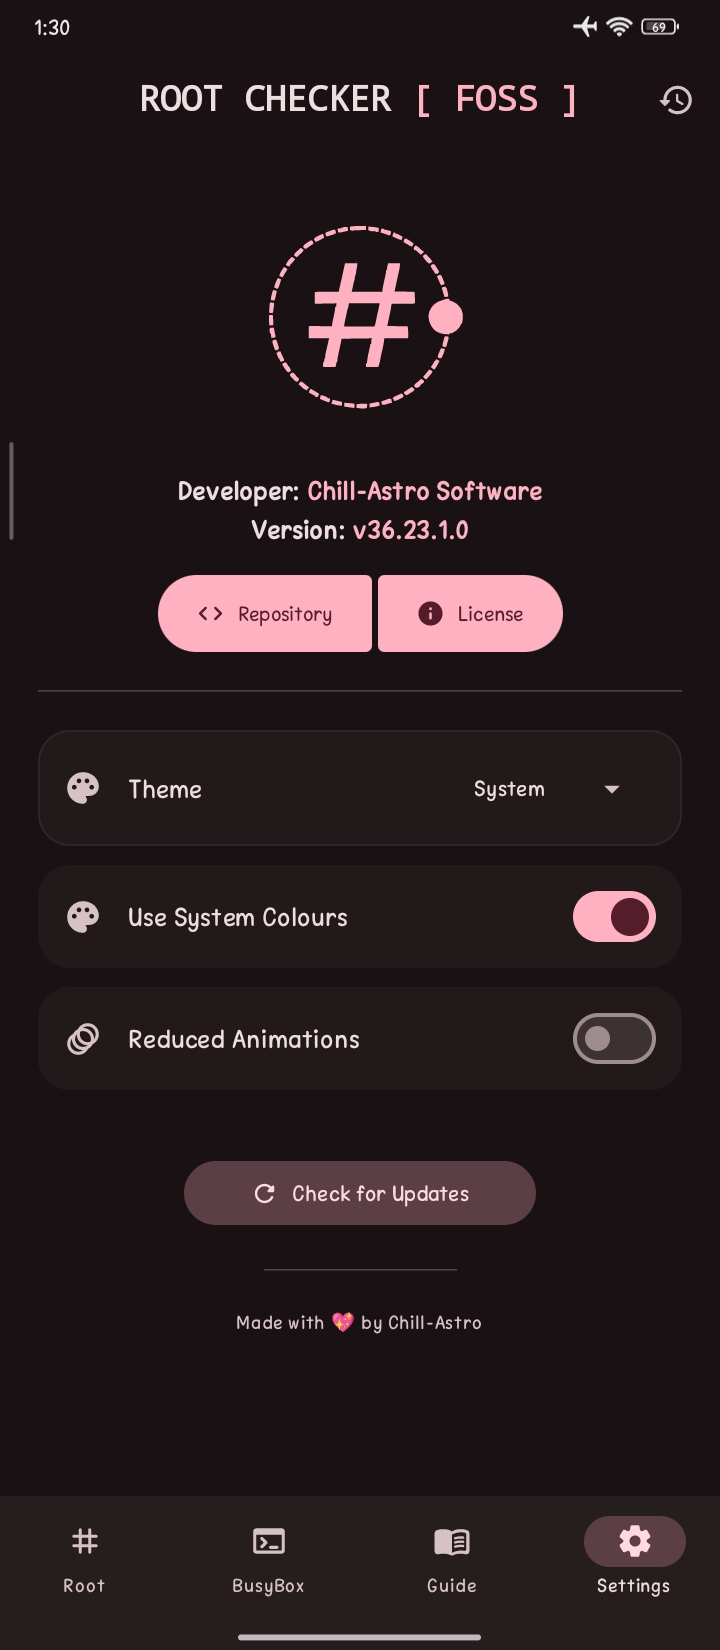
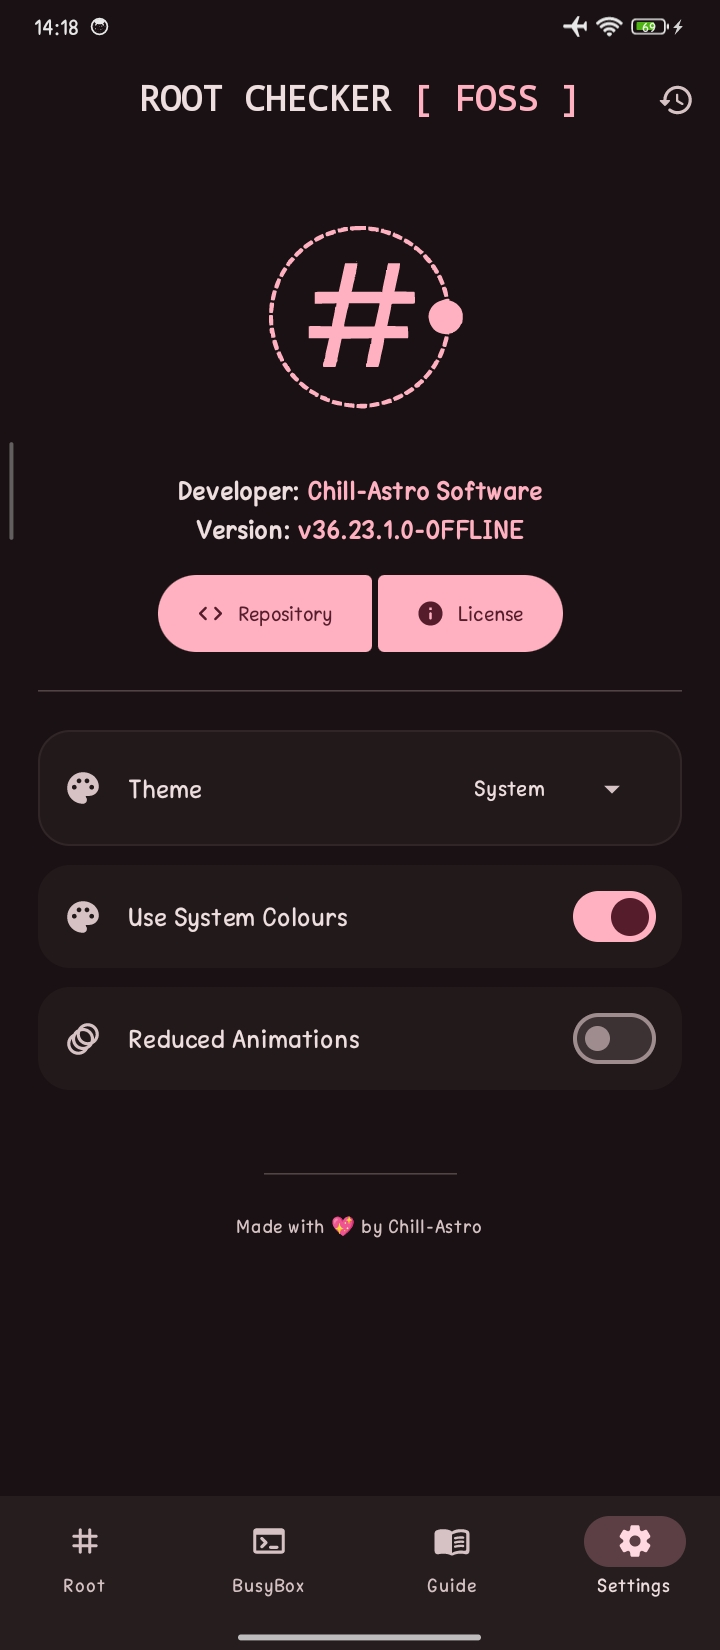
Changes for IzzyOnDroid

diff --git a/app/src/main/java/foss/chillastro/root/checker/MainActivity.kt b/app/src/main/java/foss/chillastro/root/checker/MainActivity.kt
@@ -876,6 +876,7 @@ fun Settings(
     val ctx = LocalContext.current
     val scope = rememberCoroutineScope()
     val noRipple = remember { MutableInteractionSource() }
+    val isOfflineVersion = remember { ctx.packageName.endsWith(".offline") }
 
     // States for Easter Eggs & Dialogs
     var showLicense by rememberSaveable { mutableStateOf(false) }
@@ -1137,13 +1138,21 @@ fun Settings(
                 )
             }
             Spacer(Modifier.height(16.dp))
-            FilledTonalButton(
-                onClick = { if (!isChecking) performUpdateCheck() },
-                modifier = Modifier.align(Alignment.CenterHorizontally).width(220.dp),
-                shape = CircleShape
-            ) {
-                if (isChecking) CircularProgressIndicator(modifier = Modifier.size(18.dp), strokeWidth = 2.dp)
-                else { Icon(Icons.Rounded.Refresh, null, Modifier.size(18.dp)); Spacer(Modifier.width(8.dp)); Text("Check for Updates") }
+            if (!isOfflineVersion) {
+                // Show your "Check for Updates" button only for the Official version
+                FilledTonalButton(
+                    onClick = { if (!isChecking) performUpdateCheck() },
+                    modifier = Modifier.align(Alignment.CenterHorizontally).width(220.dp),
+                    shape = CircleShape
+                ) {
+                    if (isChecking) {
+                        CircularProgressIndicator(modifier = Modifier.size(18.dp), strokeWidth = 2.dp)
+                    } else {
+                        Icon(Icons.Rounded.Refresh, null, Modifier.size(18.dp))
+                        Spacer(Modifier.width(8.dp))
+                        Text("Check for Updates")
+                    }
+                }
             }
         }
         HorizontalDivider(Modifier.padding(vertical = 24.dp).fillMaxWidth(0.3f), thickness = 1.dp, color = MaterialTheme.colorScheme.outlineVariant)
